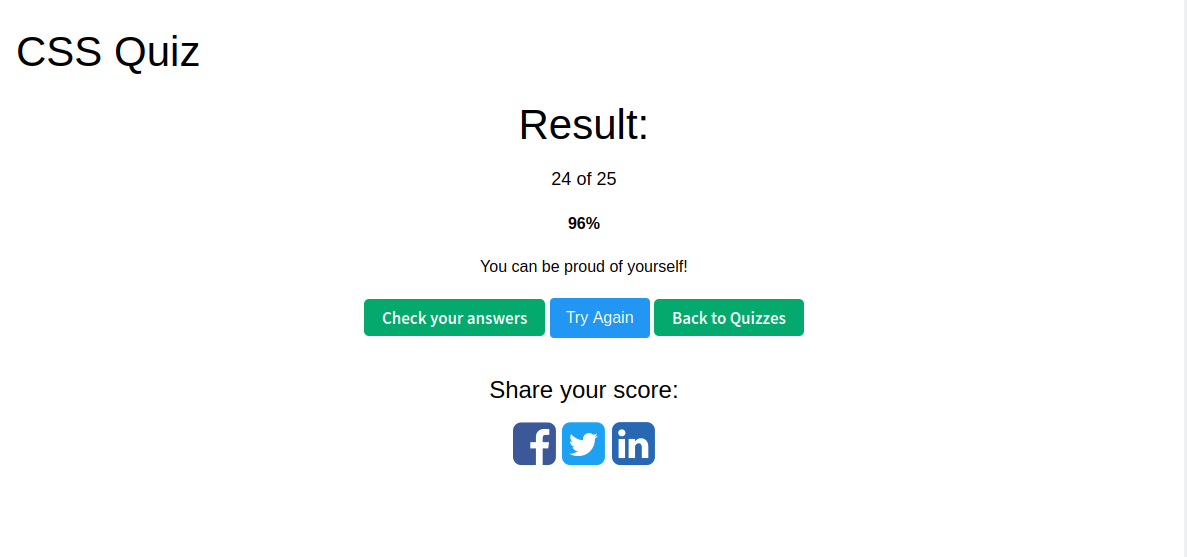
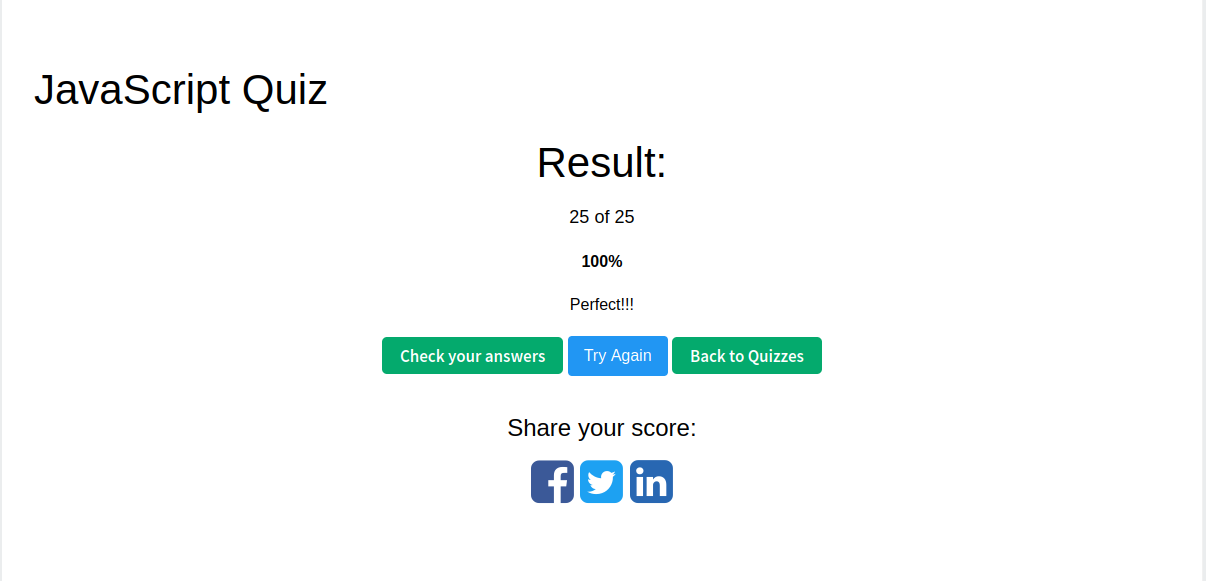
Javascript Exercise

Changed region(s): [[0.2805, 0.1831, 0.6858, 0.8851], [0.0, 0.061, 0.2805, 0.1831]]

diff --git a/script.js b/script.js
@@ -1,0 +1,79 @@
+function max(a,b) {
+    if(a > b) {
+        return a;
+    } else {
+        return b;
+    }
+}
+
+function displayMax() {
+    let num1 = Number(document.getElementById("num1").value);
+    let num2 = Number(document.getElementById("num2").value);
+    let result = max(num1, num2);
+    document.getElementById("max").innerHTML = "The maximum number is: <span class='res'>" + result + "</span>";
+}
+
+function reverse(str) {
+    let res = "";
+    for(let i = str.length - 1; i >= 0; i--) {
+        res += str[i];
+    }
+    return res;
+}
+
+function displayReverse() {
+    let inp = document.getElementById("reverse").value;
+    let reversed = reverse(inp);
+    document.getElementById("rev").innerHTML = "Reversed string is: <span class='res'>" + reversed + "</span>";
+}
+
+function FindLongestWord(str) {
+    let res = "";
+    let words = str.split(",");
+    for(let i = 0; i<words.length; i++) {
+        let word = words[i].trim();
+        if(word.length > res.length) {
+            res = word;
+        }
+    }
+    return res;
+}
+
+function displayLongestWord() {
+    let inp = document.getElementById("words").value;
+    document.getElementById("largest").innerHTML = "The longest word is: <span class='res'>" + FindLongestWord(inp) + "</span>";
+}
+
+function saveDetails() {
+    let name = document.getElementById("username").value;
+    let phone = document.getElementById("user-phone").value;
+    document.cookie = "name=" + encodeURIComponent(name) + ";max-age=604800; path=/";
+    document.cookie = "phone=" + encodeURIComponent(phone)+ "; max-age=604800; path=/";
+    document.getElementById("saved").innerText = "Details saved successfully!";
+}
+
+function loadDetails() {
+    let cookies = document.cookie.split("; ");
+    let name = "";
+    let phone = "";
+    for(let i = 0; i < cookies.length; i++) {
+        let cookie = cookies[i].split("=");
+        if(cookie[0] === "name") {
+            name = decodeURIComponent(cookie[1]);
+        } else if(cookie[0] === "phone") {
+            phone = decodeURIComponent(cookie[1]);
+        }
+    }
+
+    if(name!==""){
+        document.getElementById("username").value = name;
+        document.getElementById("name").innerText = name;
+    }
+    if(phone!==""){
+        document.getElementById("user-phone").value = phone;
+        document.getElementById("mypage-phone").innerText = "Phone: " + phone;
+        document.getElementById("mypage-phone").href = "tel:" + phone;
+    }
+
+}
+window.onload = loadDetails;

diff --git a/e1.html b/e1.html
@@ -9,7 +9,7 @@
 
         <div id="mypage-header">
             <header>
-                <h1>Kripa S Rai</h1>
+                <h1 id="name">Kripa S Rai</h1>
             </header>
         </div>
         <div id="mypage-body">
@@ -100,10 +100,46 @@
             <footer>
                 <h3>Contact Me: </h3>
                 <p> <a href="mailto:kripasrai11@gmail.com">Email: kripasrai11@gmail.com</a> </p>
-                <p><a href="tel:+919353266721">Phone: +91 9353266721</a> </p>
+                <p><a id="mypage-phone" href="tel:+919353266721">Phone: +91 9353266721</a> </p>
             </footer>
         </div>
 
+        <section id="user-interaction">
+            <h2>User Interaction:</h2><hr>
+
+            <form class="interaction">
+                <h3>Find Maximum</h3>
+                <input type="number" id="num1" placeholder="Enter first number">
+                <input type="number" id="num2" placeholder="Enter second number">
+                <input type="button" value="Find Maximum" onclick="displayMax()">
+                <div id="max"></div>
+            </form>
+
+            <form class="interaction">
+                <h3>Reverse String</h3>
+                <input type="text" id="reverse" placeholder="Enter a string">
+                <input type="button" value="Reverse" onclick="displayReverse()">
+                <div id="rev"></div>
+            </form>
+
+            <form class="interaction">
+                <h3>Find Largest Word</h3>
+                <input type="text" id="words" placeholder="Enter a list of comma-separated words">
+                <input type="button" value="Find Largest Word" onclick="displayLongestWord()">
+                <div id="largest"></div>
+            </form>
+
+            <form class="interaction">
+                <h3>Save Details</h3>
+                <input type="text" id="username" placeholder="Enter your name">
+                <input type="tel" id="user-phone" placeholder="Enter your phone number">
+                <input type="button" value="Save" onclick="saveDetails()">
+                <div id="saved"></div>
+            </form>
+
+        </section>
+
+        <script src="script.js"></script>
 
     </body>
 </html>

diff --git a/s1.css b/s1.css
@@ -138,3 +138,48 @@ body {
 #mypage-footer a:hover {
   text-decoration: underline;
 }
+
+.user-interaction {
+  background-color: #FFFFFF;
+  padding: 20px;
+  border: 1px solid #EEEEEE;
+  width: 30px auto;
+}
+
+.user-interaction h2 {
+  font-size: 1.5em;
+  color: #36393D;
+  margin-bottom: 10px;
+}
+
+.interaction {
+  margin-bottom: 20px;
+  padding: 10px;
+  border: 1px solid #EEEEEE;
+}
+
+.interaction input {
+  padding: 8px;
+  margin: 5px;
+}
+
+.interaction input[type="button"] {
+  padding: 8px 12px;
+  background-color: #3F4C6B;
+  color: #FFFFFF;
+  cursor: pointer;
+}
+
+.interaction button:hover {
+  background-color: #36393D;
+}
+
+.interaction div {
+  margin: 5px 0;
+  padding: 6px;
+}
+
+.interaction div span {
+  font-weight: bold;
+  color: #3F4C6B;
+}
